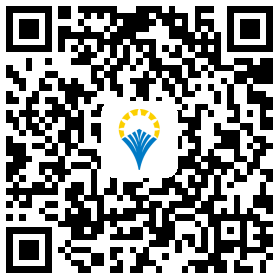
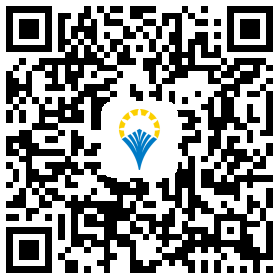
modify the donwload url of the ifood erc20 wallet android client to V1.1.6 and remove unused image file

diff --git a/src/components/Download/download.vue b/src/components/Download/download.vue
@@ -64,7 +64,7 @@
     },
     methods:{
       downloadApk:function(){
-        window.location.href="https://www.ifoodschain.com/ifood-android-V1.1.4.apk"
+        window.location.href="https://www.ifoodschain.com/ifood-android-V1.1.6.apk"
       },
       iosDownload:function(){
         this.isAlert = true;
